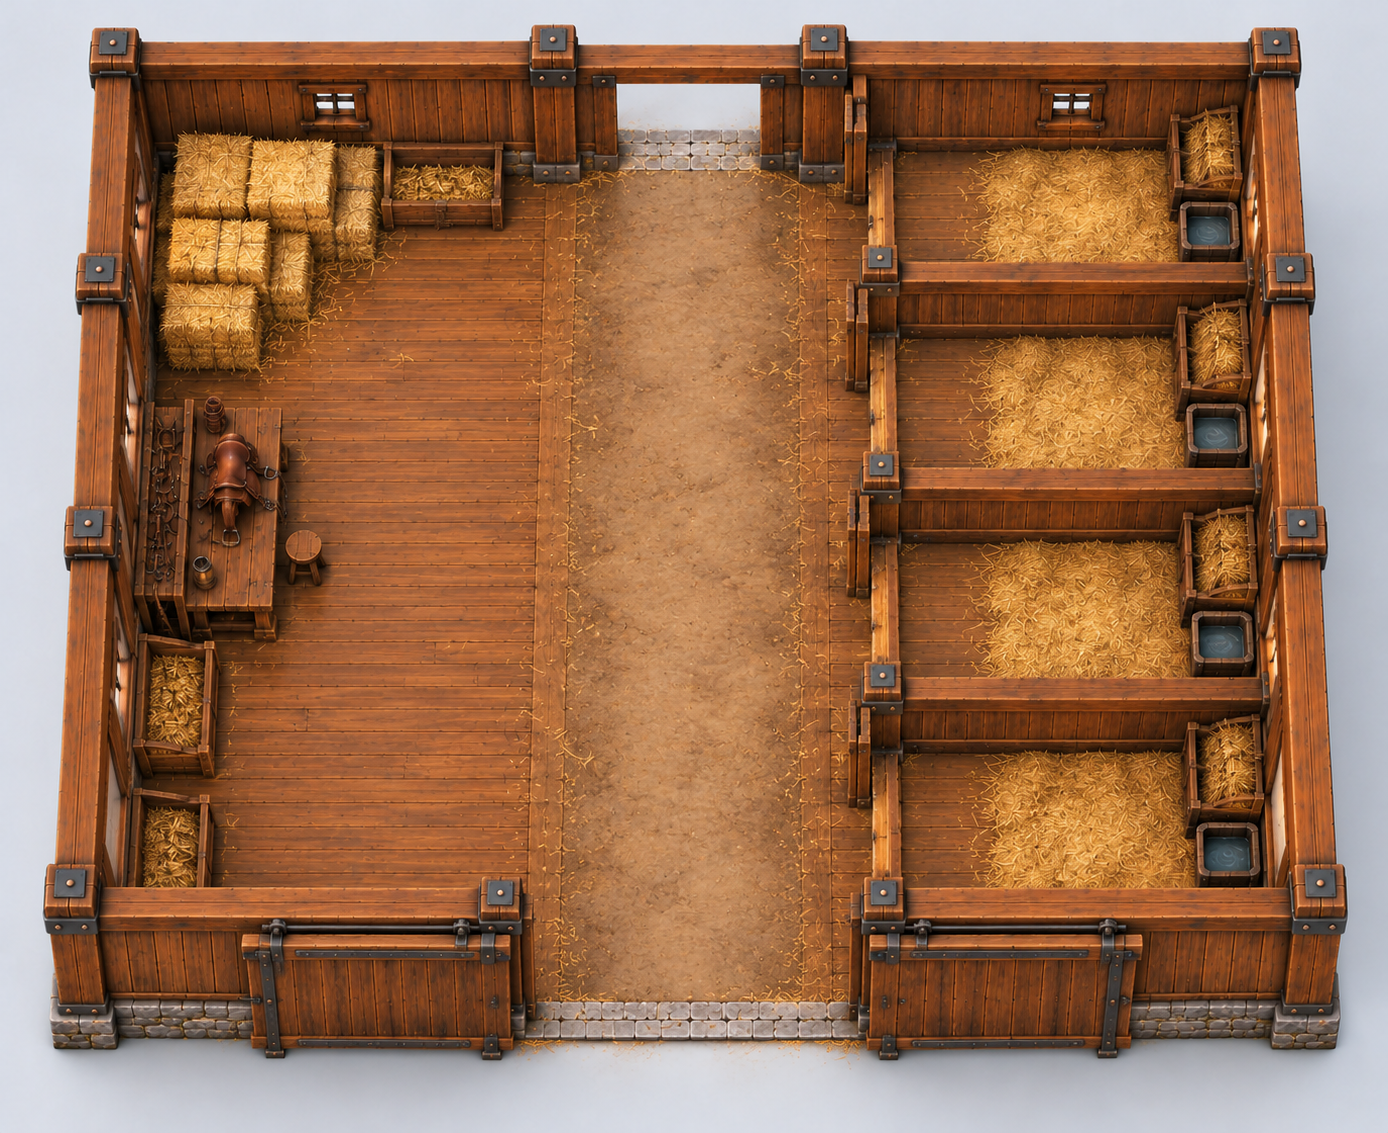
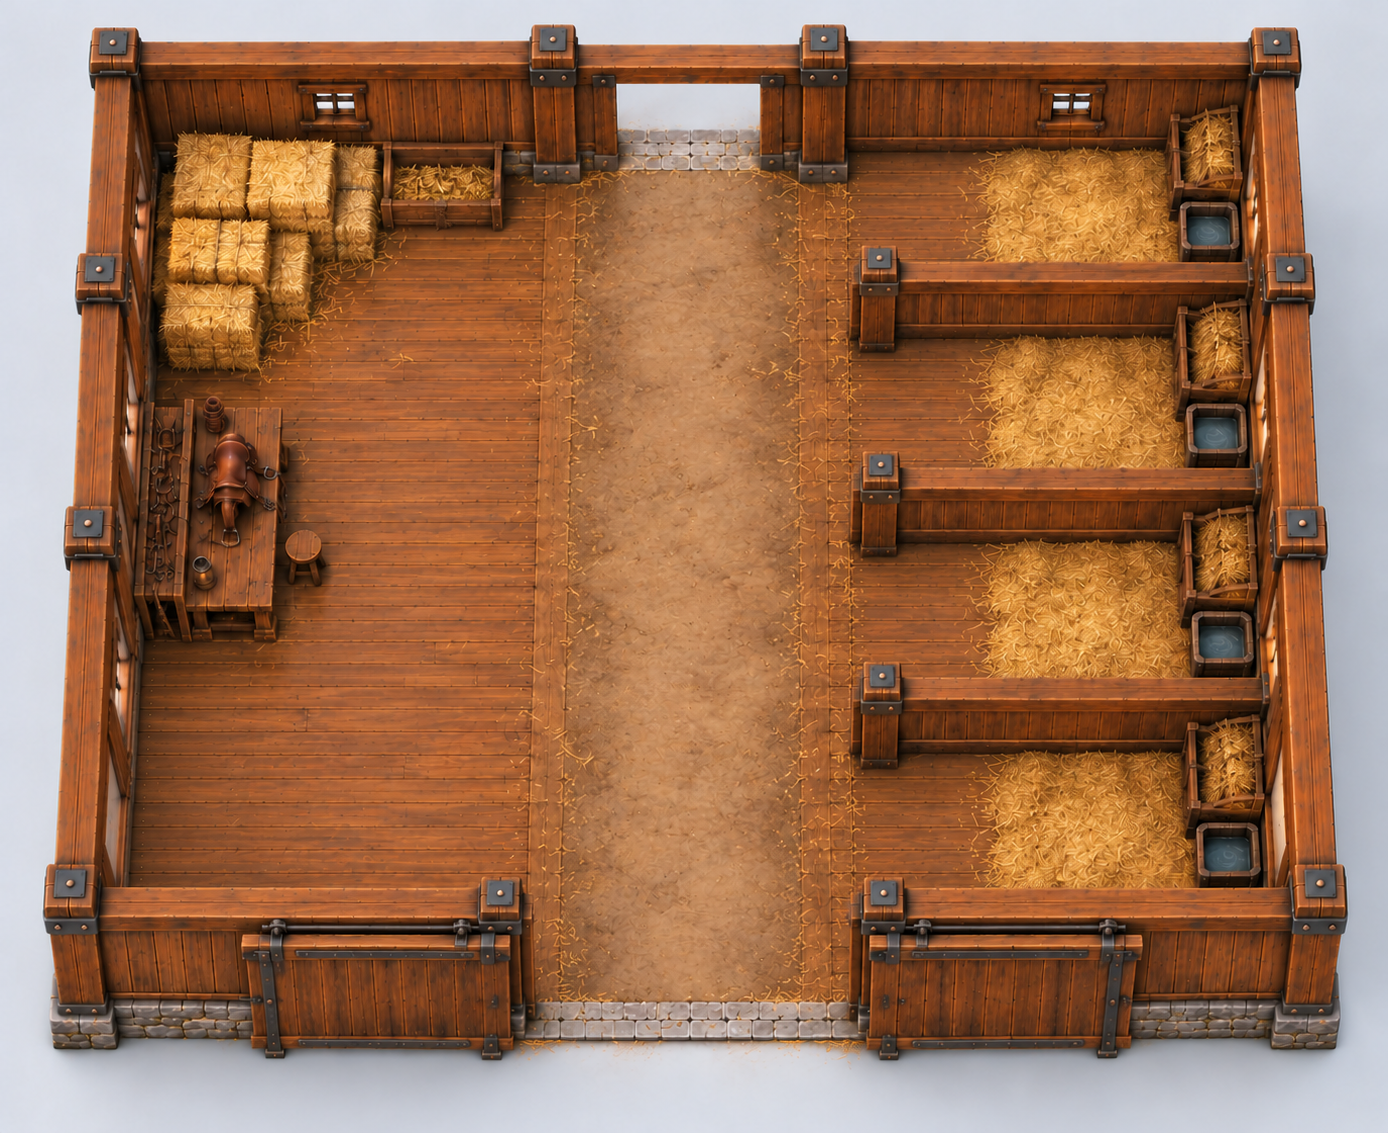
Clear stable stall entrances and remove lower-left hay bins

diff --git a/assets/concepts/stable/README.md b/assets/concepts/stable/README.md
@@ -7,8 +7,11 @@ Aktuelle zweidimensionale Bildvorlage: [stable-reference.png](stable-reference.p
 - Großes offenes Haupttor vorne (im Bild unten), mit seitlich weggeschobenen
   Holztorflügeln; breiter freier Mittelgang und kleinerer hinterer Ausgang.
 - Rechts vier getrennte, vom Mittelgang zugängliche Pferdeboxen mit Heu/Stroh,
-  Futterraufen und Wassertrögen. Keine Pferde als Bestandteil des Gebäudes.
-- Links Heuvorrat, Futterbehälter und ein Sattel-/Arbeitsbereich.
+  Futterraufen und Wassertrögen. Alle vier Zugänge zum Mittelgang sind in der
+  Bildvorlage bodenbündig und ohne querliegende Schwellenbalken dargestellt.
+  Keine Pferde als Bestandteil des Gebäudes.
+- Links bleiben der Heustapel, ein oberer Futterbehälter und die Sattel-/Werkbank.
+  Die beiden unteren linken Heubehälter sind entfernt; dort ist freie Holzfläche.
 - Überwiegend Holzplanken, kräftige Balken und dunkle Eisenbeschläge auf einem
   niedrigen Steinsockel. Keine zusätzlichen Gebäudeflügel oder ausgesparten Ecken.
 
@@ -18,7 +21,8 @@ einige Wandflächen bleiben sichtbar. Es ist kein exakt orthografischer oder
 maßhaltiger Bauplan. Größen und Tor-/Boxendurchgänge sind später am GLB neben
 der Spielfigur zu prüfen.
 
-Dies ist zunächst nur ein Bild. Es wurde kein Tripo-Modell erzeugt und kein
+Dies ist eine Bildvorlage, kein auf Begehbarkeit geprüftes 3D-Modell.
+Es wurde kein Tripo-Modell erzeugt und kein
 Editor- oder Spieleintrag geändert. Für eine spätere Tripo-Erzeugung nur die
 einzelne PNG-Datei verwenden; Dachfreiheit, offene Durchgänge und kontinuierlichen
 Boden ausdrücklich beibehalten. Feuer-, Tier- oder Dachgeometrie ist nicht vorgesehen.
